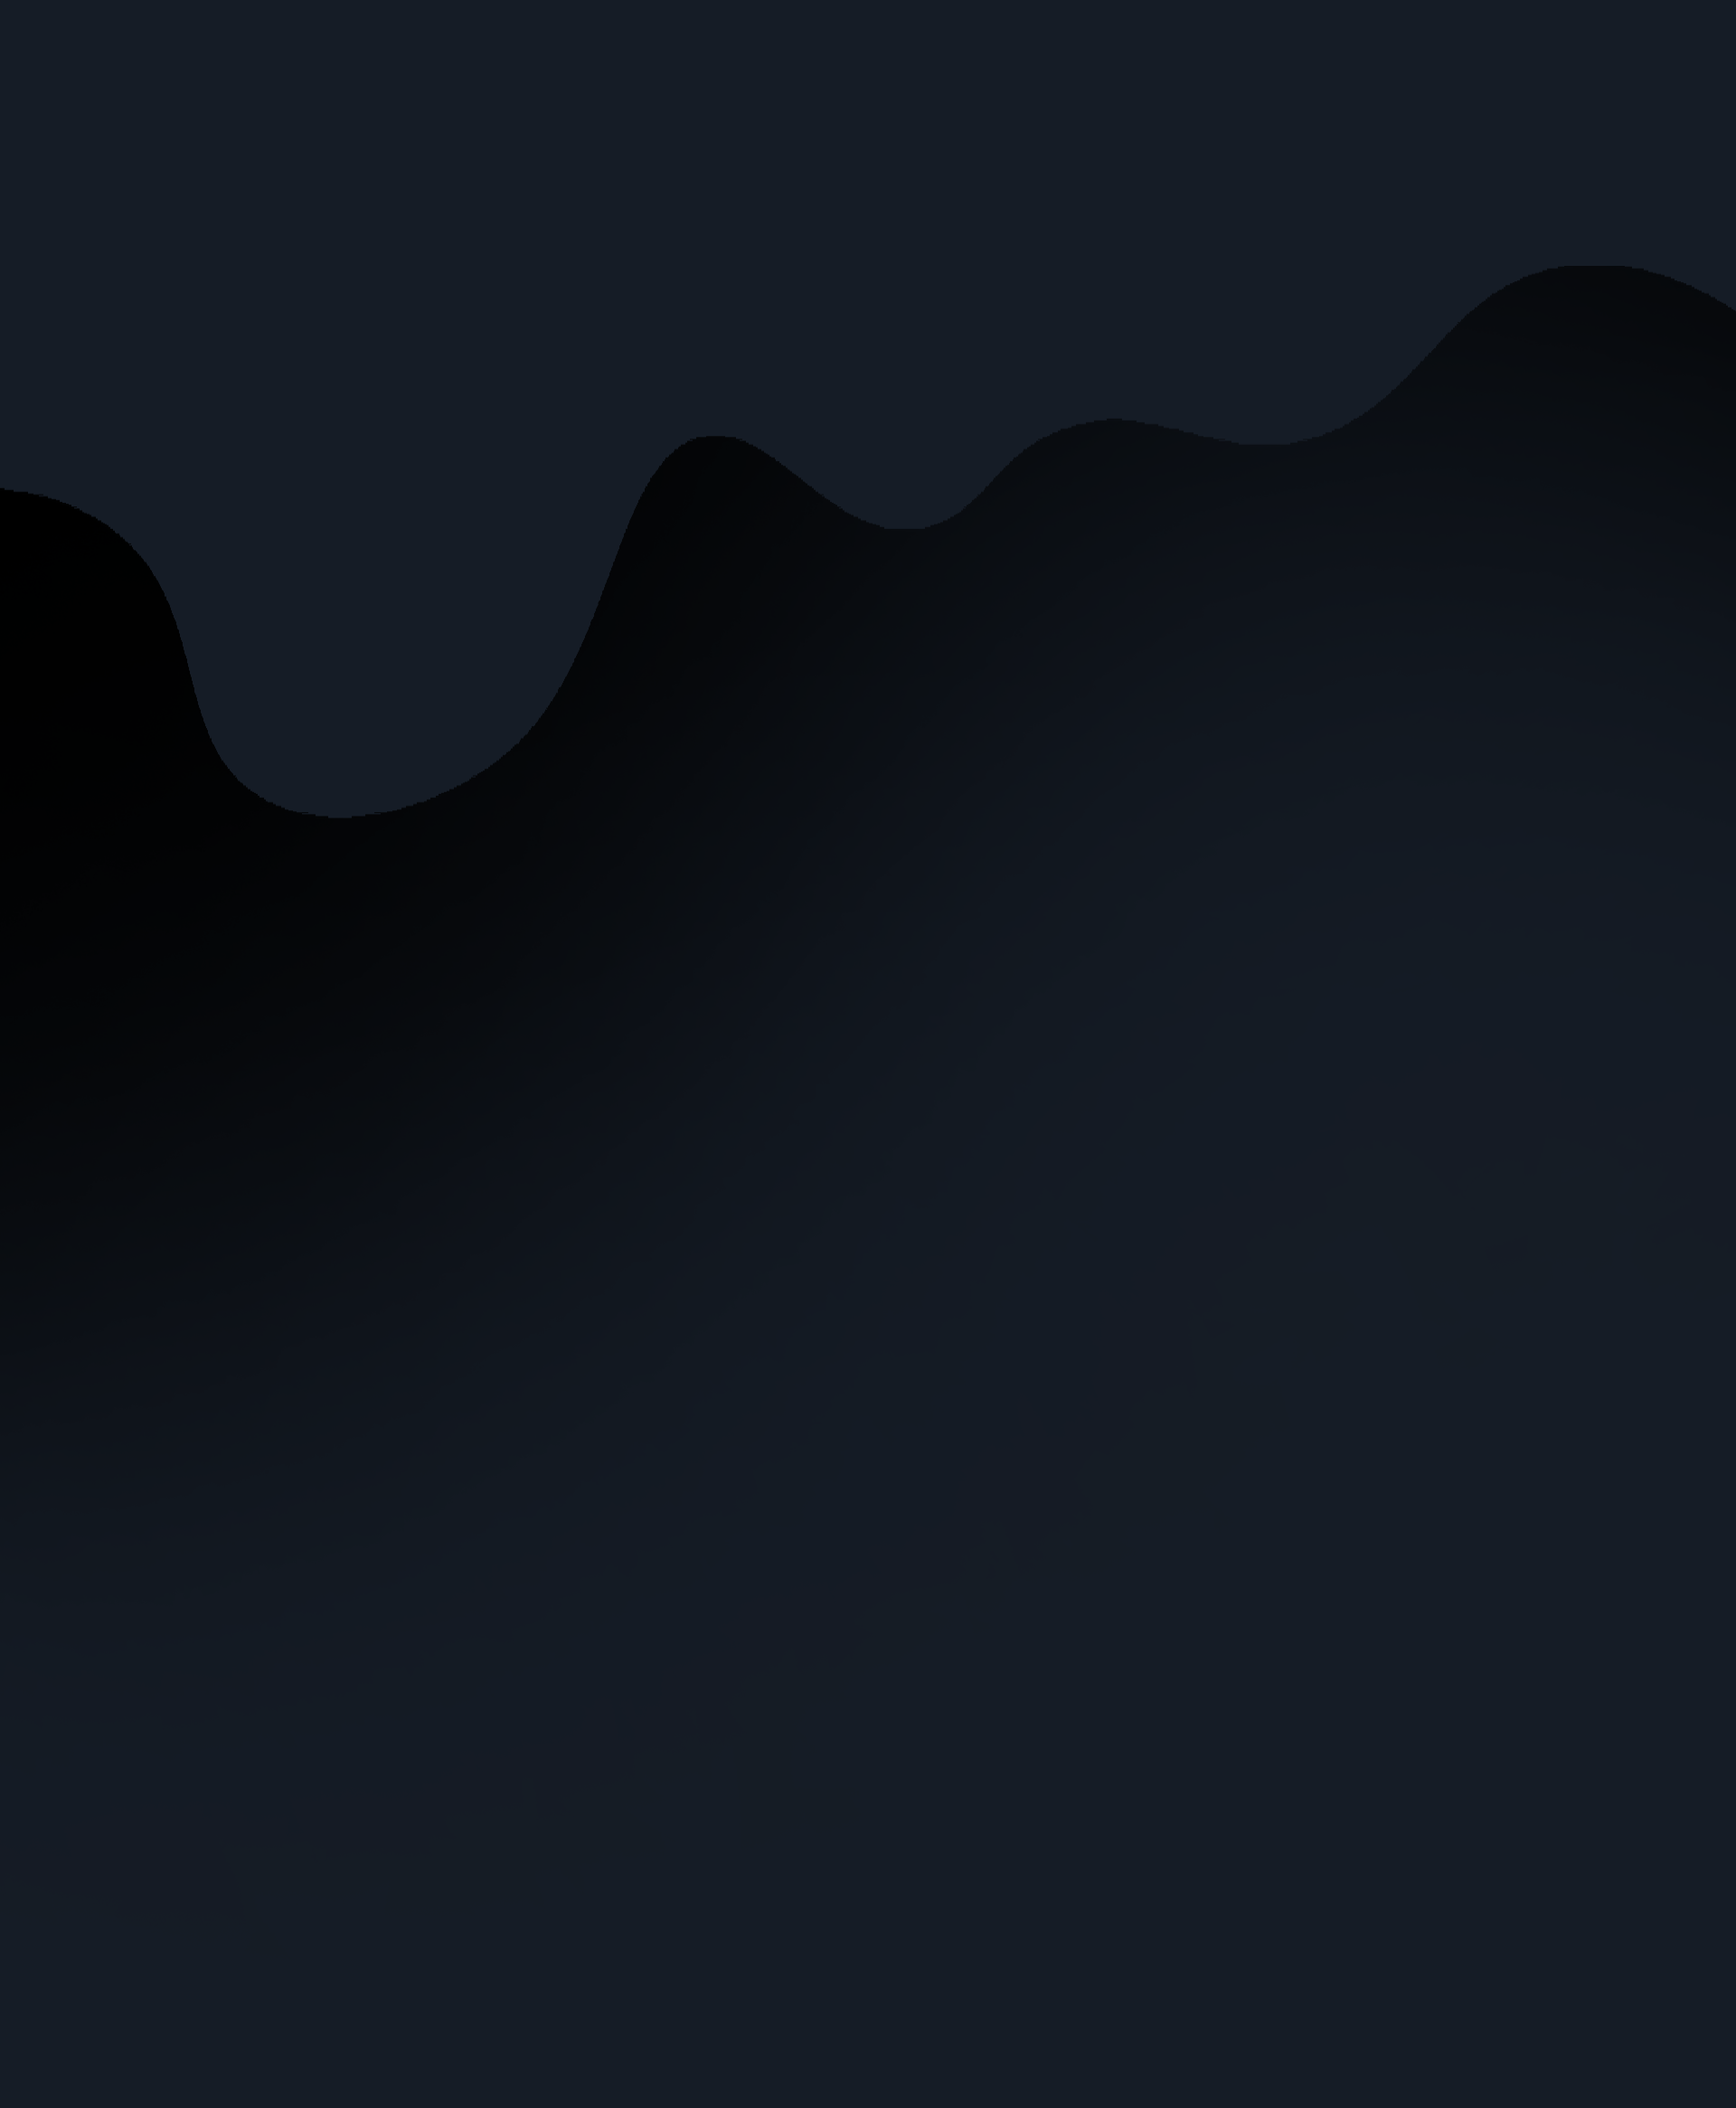
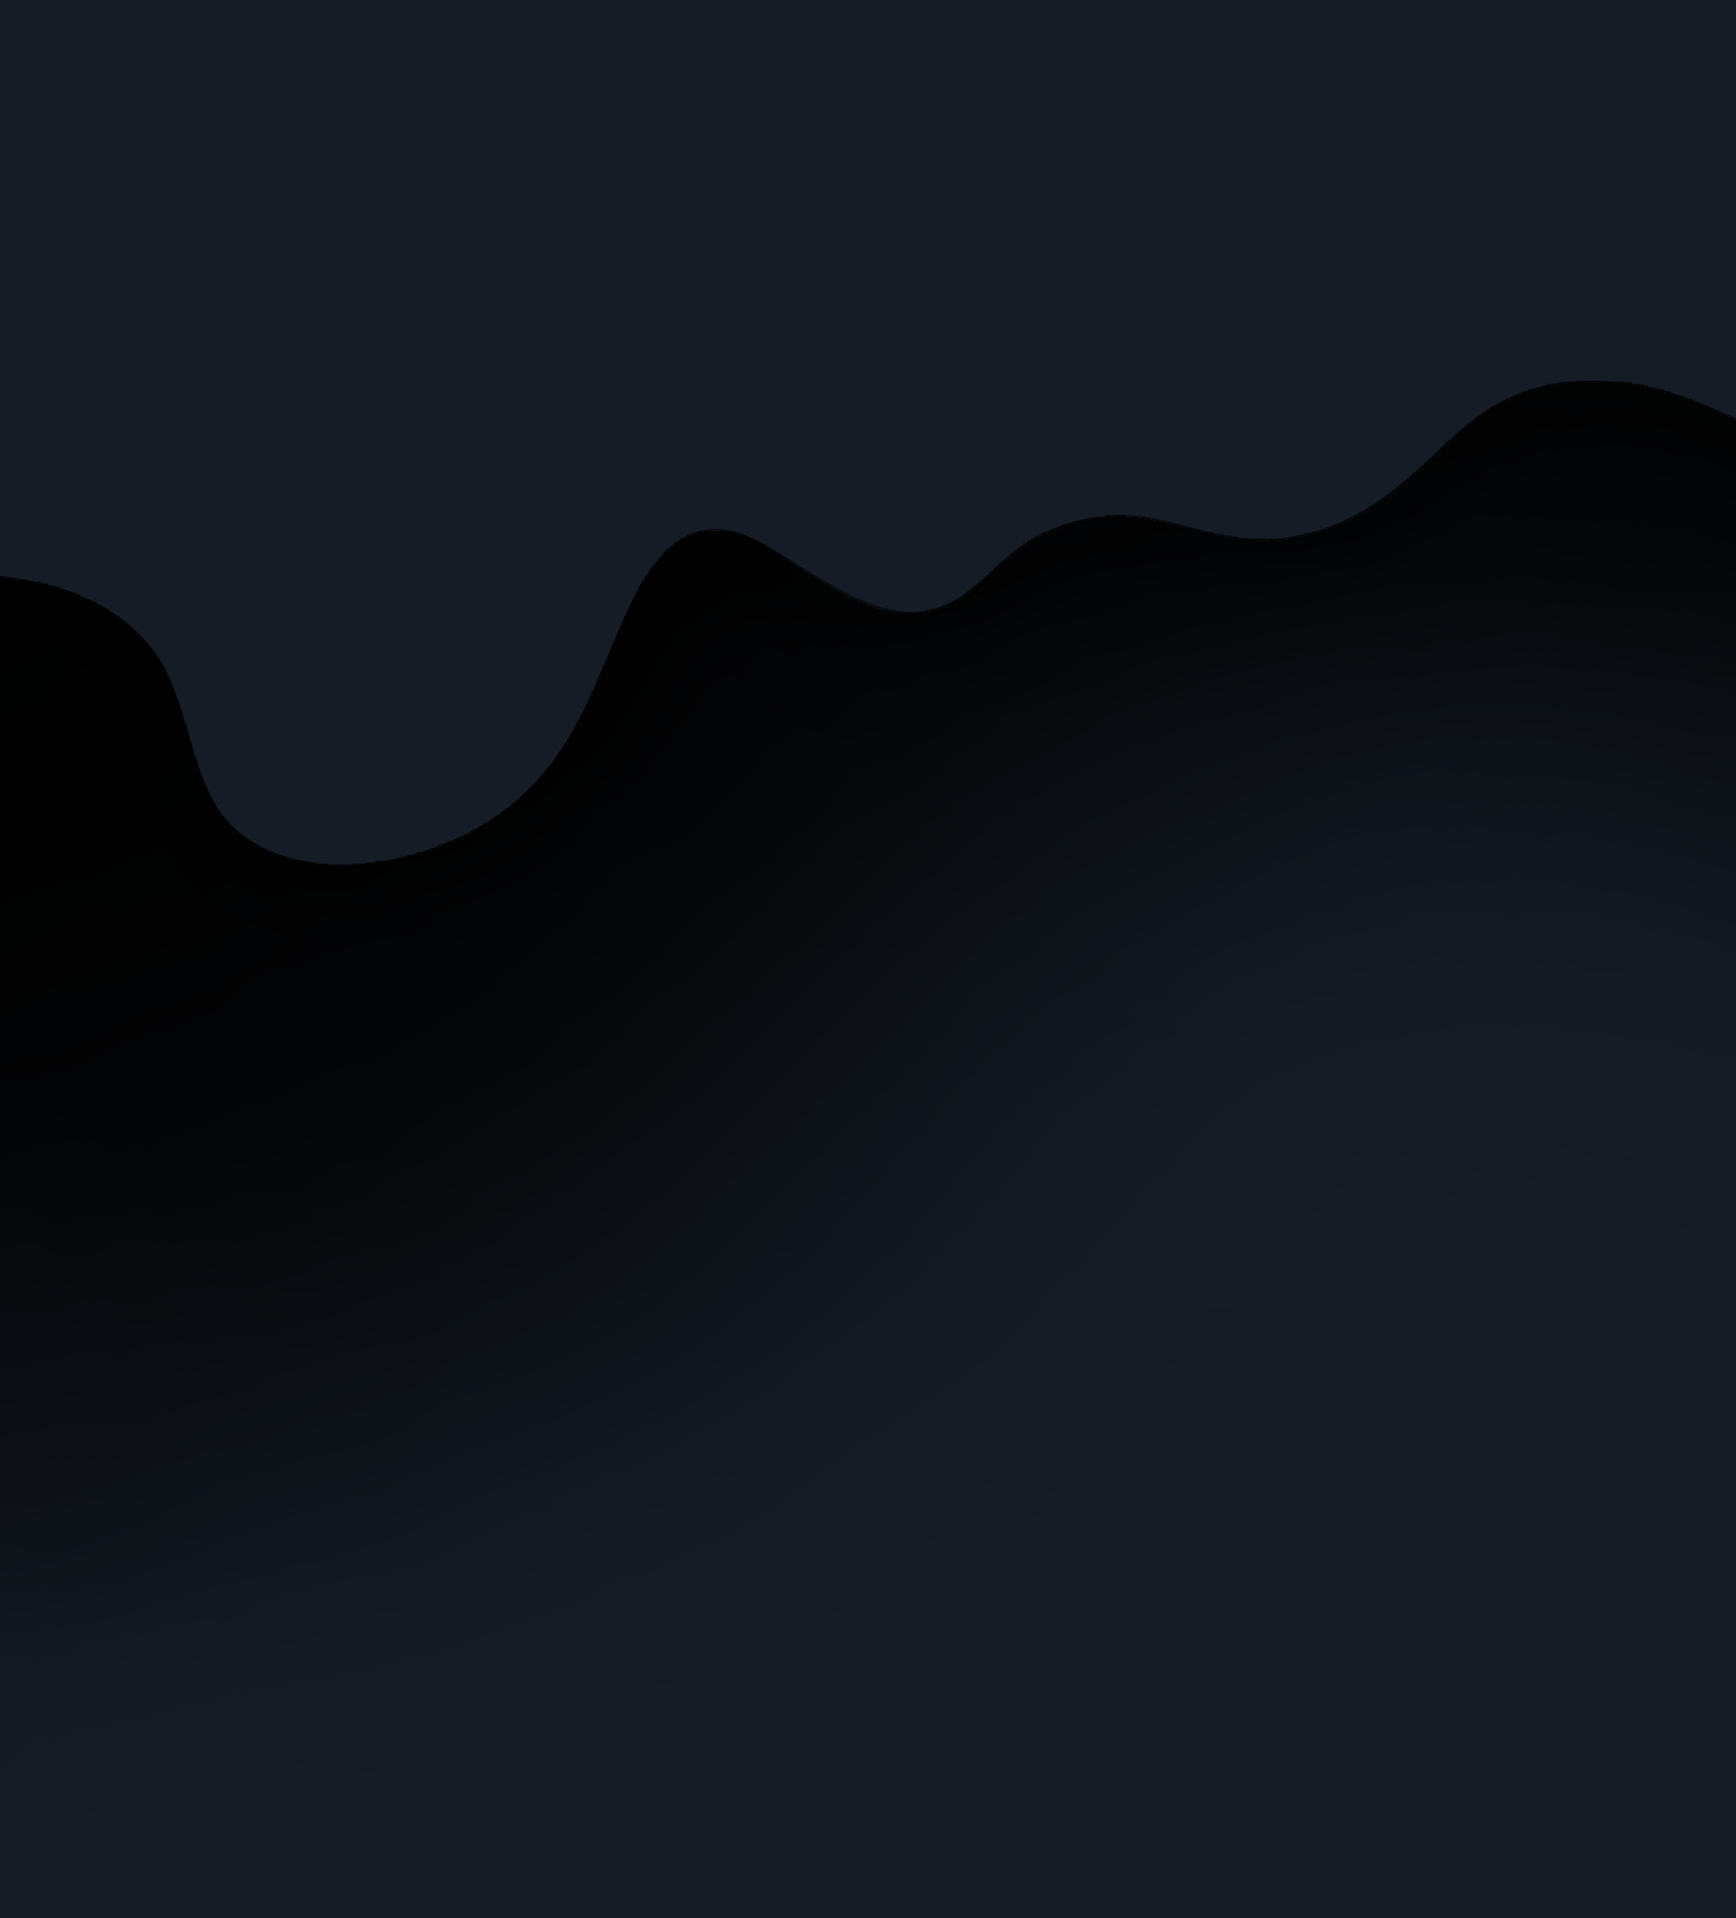
asdf

Changed region(s): [[0.0, 0.1867, 0.5, 0.4668], [0.875, 0.1245, 1.0, 0.1867]]

diff --git a/index.html b/index.html
@@ -163,7 +163,7 @@
         </div>
 
         <!--The Chorolepth Map Section-->
-        <div style="padding-top: 150px; background: linear-gradient(0deg, #161c26 20%, #0c0e12 40%, #0c0e12 80%, #161c26 100%);">
+        <div style="padding-top: 150px; background: linear-gradient(0deg, #161c26 20%, #000000 70%, #161c26 100%);">
             <div class="section" data-aos="fade-in">
                 <div id = "skipmatrix" class="line"></div>
             </div>
